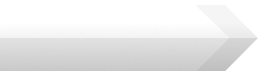
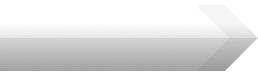
Bugfixes and UI improvements
- Fixed a bug with parsing playerdata with the amscript PlayerScriptObject

- Fixed a bug with the ConsolePanel selections visually mismatching the selected content

- Fixed custom world text exceeding the background on CreateServerReviewScreen

- Increased the shading on the console banner

Changed region(s): [[0.0, 0.6842, 0.9302, 0.9474]]

diff --git a/source/menu.py b/source/menu.py
@@ -12279,7 +12279,7 @@ class CreateServerReviewScreen(MenuBackground):
                 content += f"[color=6666AA]{constants.translate('Seed')}:      ||[/color]{constants.new_server_info['server_settings']['seed']}\n"
         else:
             box_text = os.path.join(*Path(os.path.abspath(constants.new_server_info['server_settings']['world'])).parts[-2:])
-            box_text = box_text[:30] + "..." if len(box_text) > 30 else box_text
+            box_text = box_text[:27] + "..." if len(box_text) > 27 else box_text
             content += f"[color=6666AA]{constants.translate('World')}:     [/color]{box_text}\n"
 
         def check_enabled(var):
@@ -15358,7 +15358,7 @@ class ConsolePanel(FloatLayout):
                     self.controls.maximize_button.disabled = False
                     self.controls.stop_button.disabled = False
                     self.controls.restart_button.disabled = False
-                    self.scroll_layout.data = {}
+                    self.scroll_layout.data = []
                     self.controls.control_shadow.opacity = 1
 
                     # View log button
@@ -15562,6 +15562,7 @@ class ConsolePanel(FloatLayout):
 
         self.log_view = True
 
+        self.controls.control_shadow.opacity = 0
         self.input.hint_text = "viewing last run..."
         self.controls.control_shadow.size_hint_max = (135, 120)
         self.selected_labels = []
@@ -15583,6 +15584,7 @@ class ConsolePanel(FloatLayout):
             self.controls.remove_widget(self.controls.log_button)
             self.controls.launch_button.button.on_leave()
             self.controls.log_button.button.on_leave()
+            Animation(opacity=1, duration=anim_speed).start(self.controls.control_shadow)
 
         Clock.schedule_once(after_anim, (anim_speed * 1.51))
         Clock.schedule_once(functools.partial(self.maximize, True), 0.2)
@@ -15591,7 +15593,6 @@ class ConsolePanel(FloatLayout):
     # Hides previous console log in panel
     def hide_log(self, *args):
 
-        self.scroll_layout.data = []
         self.selected_labels = []
 
         def after_anim(*a):
@@ -15625,7 +15626,7 @@ class ConsolePanel(FloatLayout):
 
             def after_anim2(*a):
                 self.controls.view_button.disabled = False
-                self.scroll_layout.data = {}
+                self.scroll_layout.data = []
 
                 # View log button
                 self.controls.control_shadow.size_hint_max = (255, 120)
@@ -15641,16 +15642,18 @@ class ConsolePanel(FloatLayout):
     def select_all(self):
         self.selected_labels = [x['text'] for x in self.scroll_layout.data]
         for label in self.console_text.children:
+            Animation.stop_all(label.sel_cover)
             label.sel_cover.opacity = 0.2
+        Clock.schedule_once(self.scroll_layout.refresh_from_layout, 0)
 
 
     # Deselect all selected ConsoleLabels
     def deselect_all(self):
         self.selected_labels = []
         for label in self.console_text.children:
-            if label.sel_cover.opacity > 0:
-                Animation.stop_all(label.sel_cover)
-                Animation(opacity=0, duration=0.05).start(label.sel_cover)
+            Animation.stop_all(label.sel_cover)
+            Animation(opacity=0, duration=0.05).start(label.sel_cover)
+        Clock.schedule_once(self.scroll_layout.refresh_from_layout, 0.1)
 
 
     # Format and copy all selected text to clipboard
@@ -15673,7 +15676,7 @@ class ConsolePanel(FloatLayout):
                 Animation.stop_all(label.sel_cover)
                 label.sel_cover.opacity = 0.4
                 Animation(opacity=0, duration=0.2).start(label.sel_cover)
-
+        Clock.schedule_once(self.scroll_layout.refresh_from_layout, 0.41)
 
     # Check for drag select
     def on_touch_down(self, touch):
@@ -15833,7 +15836,7 @@ class ConsolePanel(FloatLayout):
 
                 if text and screen_manager.current_screen.name == 'ServerViewScreen':
 
-                    if not self.console_panel:
+                    if not self.console_panel and not constants.server_manager.current_server.run_data:
                         try:
                             self.console_panel = screen_manager.current_screen.console_panel
                         except:
@@ -15883,9 +15886,10 @@ class ConsolePanel(FloatLayout):
 
                         # Format selection color
                         if self.console_panel:
-                            self.sel_cover.opacity = 0.2 if self.original_text in self.console_panel.selected_labels else 0
+                            self.sel_cover.opacity = 0.2 if text in self.console_panel.selected_labels else 0
                         self.sel_cover.color = constants.brighten_color(type_color, 0.05)
                         self.sel_cover.width = self.width
+
 
             def __init__(self, **kwargs):
                 super().__init__(**kwargs)
@@ -15947,7 +15951,7 @@ class ConsolePanel(FloatLayout):
                 class SelectCover(Image):
 
                     def on_touch_down(self, touch):
-                        if self.collide_point(*touch.pos):
+                        if self.collide_point(*touch.pos) and touch.button == 'left':
                             if self.parent:
                                 for widget in self.parent.parent.children:
                                     widget.sel_cover.opacity = 0
@@ -15958,6 +15962,7 @@ class ConsolePanel(FloatLayout):
                                         self.parent.console_panel.last_touch = touch.pos
                                         self.parent.console_panel.selected_labels = [self.parent.original_text]
                                         self.opacity = 0.2
+                                        Clock.schedule_once(self.parent.console_panel.scroll_layout.refresh_from_layout, 0)
                                 except:
                                     pass
                         else:

diff --git a/source/amscript.py b/source/amscript.py
@@ -6,6 +6,7 @@ from copy import deepcopy
 from munch import Munch
 from glob import glob
 from nbt import nbt
+import json_repair
 import constants
 import traceback
 import functools
@@ -1357,7 +1358,7 @@ class ServerScriptObject():
         if tag.startswith("@p") or tag.startswith("@r"):
             user = None
 
-            if self.version_check(">", "1.13"):
+            if self.version_check(">=", "1.13"):
                 try:
                     log_data = self.execute(f'data get entity {tag}', log=False, _capture=f" has the following entity data: ", _send_twice=True)
                     user = log_data.split(" has the following entity data: ")[0].rsplit(":",1)[1].strip()
@@ -1471,7 +1472,7 @@ class PlayerScriptObject():
         new_nbt = None
 
         # If newer version, use "/data get" to gather updated playerdata
-        if self._version_check(">", "1.13"):
+        if self._version_check(">=", "1.13"):
 
             # Attempt to intercept player's entity data
             try:
@@ -1482,14 +1483,14 @@ class PlayerScriptObject():
                         return None
                     except PermissionError:
                         return None
+
                     try:
                         self.position = CoordinateObject({'x': fmt(new_nbt['Pos'][0]), 'y': fmt(new_nbt['Pos'][1]), 'z': fmt(new_nbt['Pos'][2])})
                     except:
                         pass
 
                     try:
-                        self.rotation = CoordinateObject(
-                            {'x': fmt(new_nbt['Rotation'][0]), 'y': fmt(new_nbt['Rotation'][1])})
+                        self.rotation = CoordinateObject({'x': fmt(new_nbt['Rotation'][0]), 'y': fmt(new_nbt['Rotation'][1])})
                     except:
                         pass
 
@@ -1582,11 +1583,10 @@ class PlayerScriptObject():
                     # Make sure that strings are escaped with quotes, and json quotes are escaped with \"
                     try:
                         new_nbt = re.sub(r'(:?"[^"]*")|([A-Za-z_\-\d.?\d]\w*\.*\d*\w*)', lambda x: json_regex(x), nbt_data).replace(";",",").replace("'{", '"{').replace("}'", '}"')
-                        new_nbt = json.loads(re.sub(r'(?<="{)(.*?)(?=}")', lambda x: x.group(1).replace('"', '\\"'), new_nbt))
+                        new_nbt = json_repair.loads(re.sub(r'(?<="{)(.*?)(?=}")', lambda x: x.group(1).replace('"', '\\"'), new_nbt))
                     except json.decoder.JSONDecodeError:
                         if constants.debug:
                             print('Failed to process NBT data')
-                        pass
 
             # If log doesn't contain entity content, revert NBT
             except IndexError:
